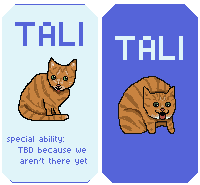
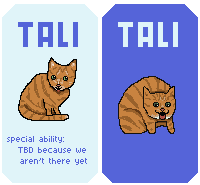
basic visual for character select

diff --git a/src/game/scenes/CharacterSelect.ts b/src/game/scenes/CharacterSelect.ts
@@ -13,21 +13,26 @@ export default class CharacterSelect extends Phaser.Scene {
 
     showCharacters() {
         this.background = this.add.tileSprite(0, 0, this.width, this.height, "background").setOrigin(0).setScrollFactor(0, 1);
-/*
-        this.scene.anims.create({
-            key: this.name,
-            frames: this.scene.anims.generateFrameNumbers(this.name, { start: 0, end: 0 }),
-            frameRate: 10,
-            repeat: -1
+
+        //TO DO
+            // need to set a variable that will set sprite / character info. to start probably just swap sprites
+            // will adding these to a group make it easier to code?
+            // keyboard controls too
+         const tali = this.add.sprite(this.center_width, this.center_height - 40, 'tali-select').setInteractive();
+        
+        let activeState: boolean = false;
+        tali.on('pointerdown', () => {
+            if(!activeState) {
+               // tali.setTint(0x5564d9);
+                tali.setFrame(1);
+                activeState = !activeState;
+            } else {
+                //tali.clearTint();
+                tali.setFrame(0);
+                activeState = !activeState;
+            }
         });
-        this.scene.anims.create({
-            key: this.name + "selected",
-            frames: this.scene.anims.generateFrameNumbers(this.name, { start: 1, end: 1 }),
-            frameRate: 10,
-            repeat: -1
-        });
-        this.anims.play(this.name, true);
-*/
+
         this.add.bitmapText(this.center_width, this.center_height + 100, 'minogram', 'Select a Character', 30).setOrigin(0.5).setTintFill(0x000000);
         this.add.bitmapText(this.center_width, this.center_height + 140, 'minogram', 'SPACE to start', 30).setOrigin(0.5).setTintFill(0x000000);
 
